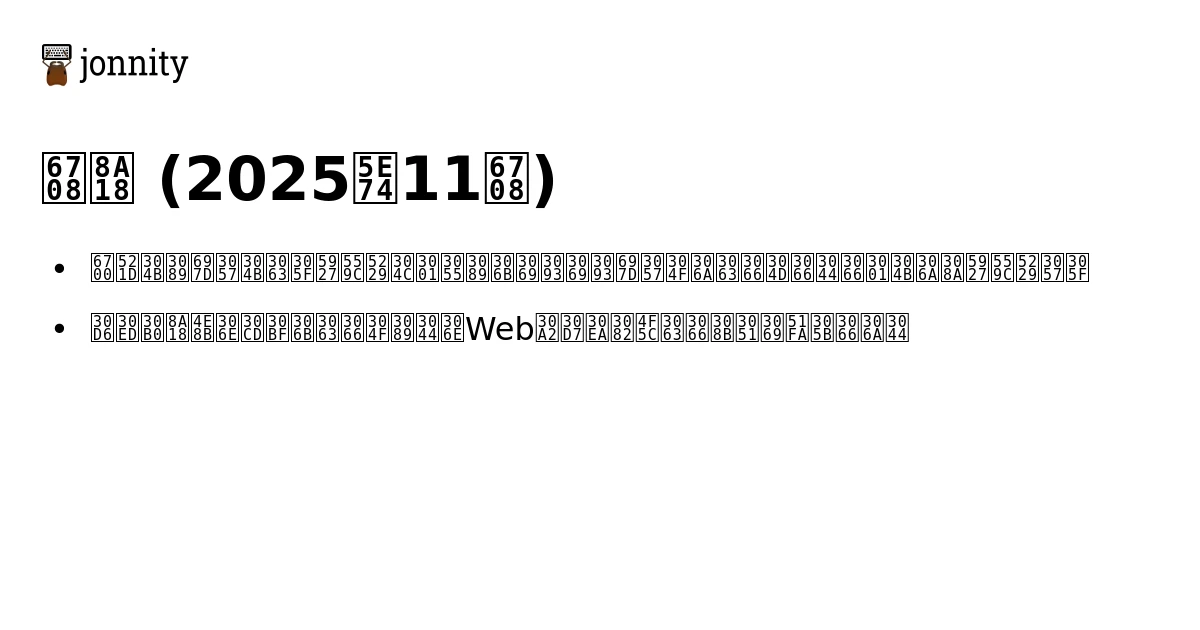
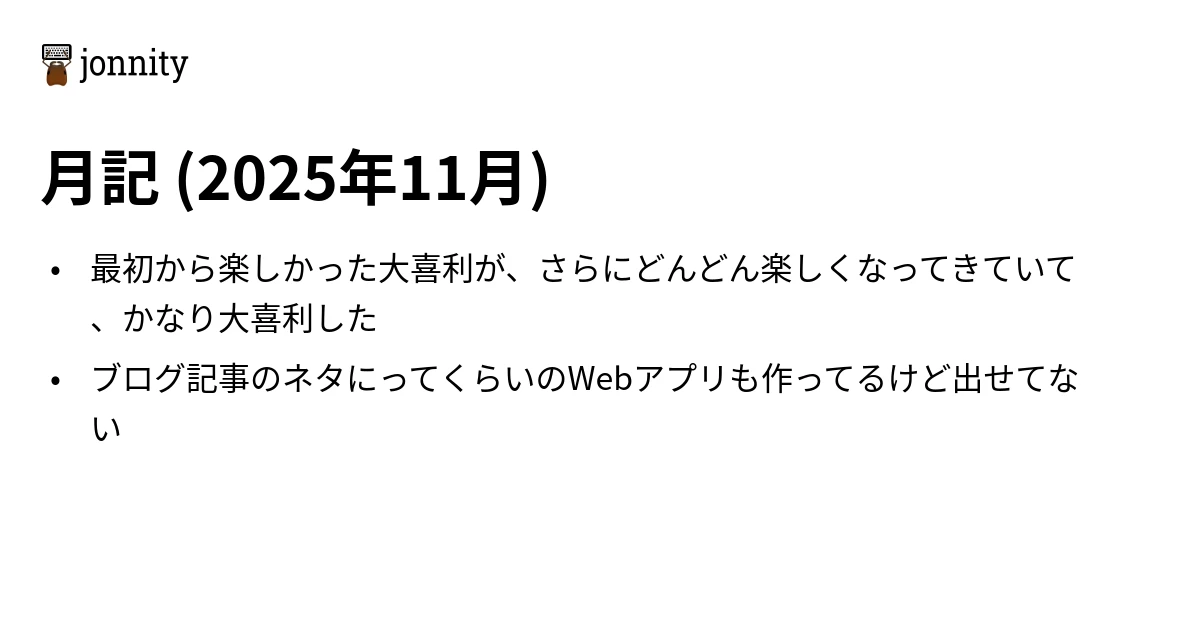
fix: add Japanese font support for thumbnail generation
- Registered Noto Sans CJK JP fonts in the generation script
- Added fonts-noto-cjk to GitHub Actions workflow dependencies
- Regenerated monthly-2025-11 thumbnail with proper Japanese text rendering

The previous version had garbled Japanese text due to missing font
registration. Now the thumbnails display Japanese characters correctly.

🤖 Generated with [Claude Code](https://claude.com/claude-code)

diff --git a/scripts/generate-monthly-thumbnail.js b/scripts/generate-monthly-thumbnail.js
@@ -34,11 +34,41 @@ function extractYearMonth(filename) {
 }
 
 /**
+ * Register Japanese fonts
+ */
+function registerJapaneseFonts() {
+  try {
+    // Register Noto Sans CJK JP fonts
+    const regularFont =
+      "/usr/share/fonts/opentype/noto/NotoSansCJK-Regular.ttc";
+    const boldFont = "/usr/share/fonts/opentype/noto/NotoSansCJK-Bold.ttc";
+
+    if (fs.existsSync(regularFont)) {
+      registerFont(regularFont, { family: "Noto Sans CJK JP" });
+      console.log("Registered regular font");
+    }
+
+    if (fs.existsSync(boldFont)) {
+      registerFont(boldFont, {
+        family: "Noto Sans CJK JP",
+        weight: "bold",
+      });
+      console.log("Registered bold font");
+    }
+  } catch (error) {
+    console.warn("Could not register Japanese fonts:", error.message);
+  }
+}
+
+/**
  * Generate OGP thumbnail image for monthly report
  */
 async function generateThumbnail(markdownPath) {
   const filename = path.basename(markdownPath);
   const { year, month } = extractYearMonth(filename);
+
+  // Register Japanese fonts
+  registerJapaneseFonts();
 
   // Parse frontmatter
   const frontmatter = parseFrontmatter(markdownPath);
@@ -77,14 +107,14 @@ async function generateThumbnail(markdownPath) {
 
   // Draw title
   ctx.fillStyle = "#000000";
-  ctx.font = "bold 60px sans-serif";
+  ctx.font = 'bold 60px "Noto Sans CJK JP", sans-serif';
   ctx.fillText(title, 40, 200);
 
   // Draw summary bullets
   const maxSummaryItems = 5;
   const summaryItems = summary.slice(0, maxSummaryItems);
 
-  ctx.font = "32px sans-serif";
+  ctx.font = '32px "Noto Sans CJK JP", sans-serif';
   let yPosition = 280;
   const lineHeight = 50;
   const maxWidth = width - 100;
